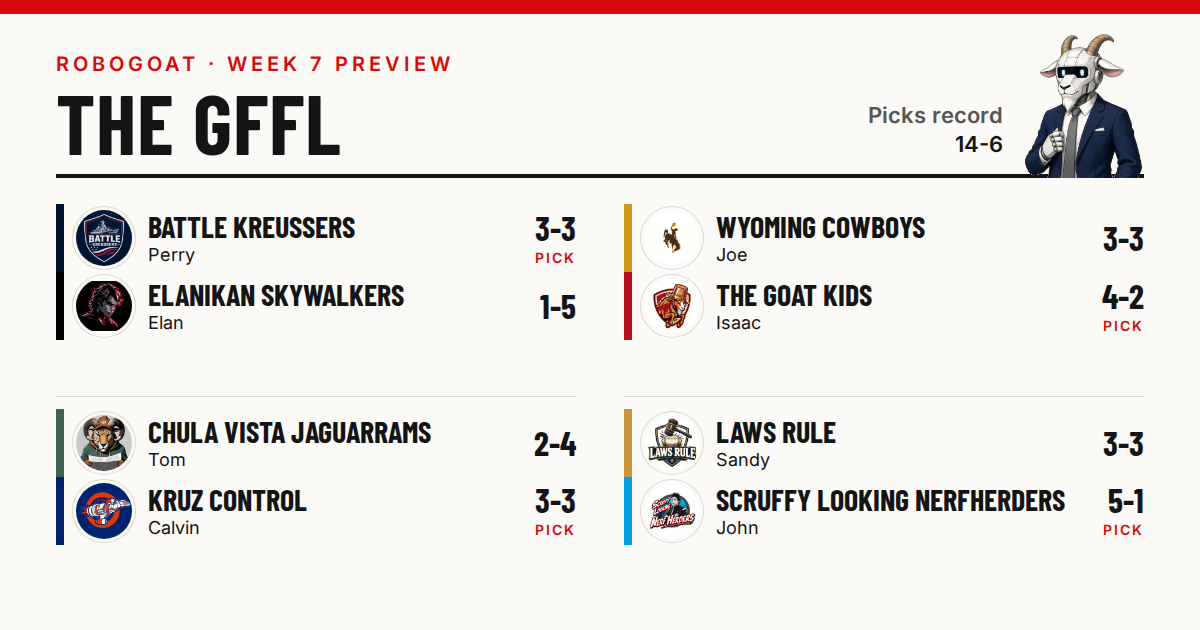
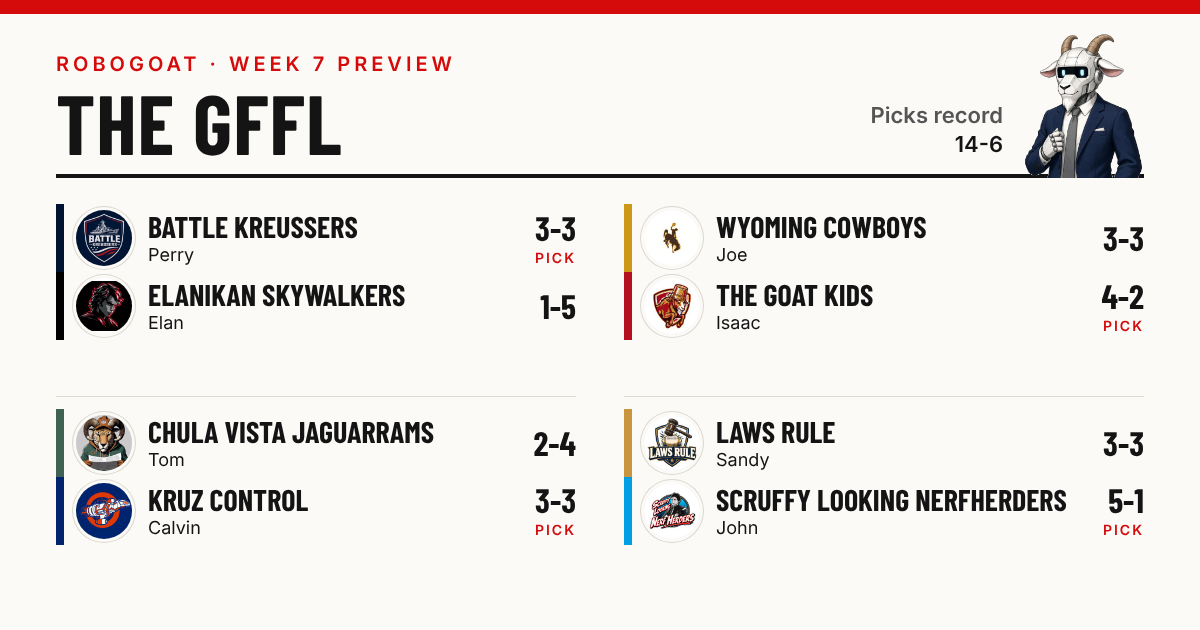
RoboGoat Week 7 preview: headline on John, who had never had one
Perry, 2026-10-24: "lets change the headline to focus on someone who has not been
in a headline before". Elan, John and Tom had never been in one. The new headline is
"Both of Thursday's Quarterbacks Play for John", and the John story moves from the
Thursday section up to the lede, with the Adams trade second. Subject, description and
archive are updated. The push already sent this morning used the old headline.

robogoat 461/461.

Claude-Session: https://claude.ai/code/session_01QmYWhp1Wr98tw96yVCXBp8

diff --git a/robogoat/2026/week-7-preview/index.html b/robogoat/2026/week-7-preview/index.html
@@ -4,14 +4,14 @@
 <meta charset="utf-8">
 <meta name="viewport" content="width=device-width,initial-scale=1">
 <title>RoboGoat · GFFL Week 7 Preview</title>
-<meta name="description" content="Perry trades for Davante Adams again, a week after trading him away, John&#x27;s two quarterbacks meet on Thursday, Tom swaps Kirk Cousins for Bo Nix, and Sandy un-drops a tight end in two minutes.">
+<meta name="description" content="Both of Thursday&#x27;s quarterbacks play for John, who leads Sandy 55.1 to nothing, Perry and Isaac undo the Davante Adams trade, Tom swaps Kirk Cousins for Bo Nix, and Sandy un-drops a tight end in two minutes.">
 <meta name="robots" content="noindex">
 <meta name="theme-color" content="#013369">
 <meta property="og:type" content="article">
 <meta property="og:site_name" content="RoboGoat · GFFL">
 <meta property="og:url" content="https://goatfantasyleague.com/robogoat/2026/week-7-preview/">
 <meta property="og:title" content="RoboGoat · GFFL Week 7 Preview">
-<meta property="og:description" content="Perry trades for Davante Adams again, a week after trading him away, John&#x27;s two quarterbacks meet on Thursday, Tom swaps Kirk Cousins for Bo Nix, and Sandy un-drops a tight end in two minutes.">
+<meta property="og:description" content="Both of Thursday&#x27;s quarterbacks play for John, who leads Sandy 55.1 to nothing, Perry and Isaac undo the Davante Adams trade, Tom swaps Kirk Cousins for Bo Nix, and Sandy un-drops a tight end in two minutes.">
 <meta property="og:image" content="https://goatfantasyleague.com/robogoat/2026/week-7-preview/share.png">
 <meta property="og:image:width" content="1200">
 <meta property="og:image:height" content="630">
@@ -184,16 +184,17 @@ ol.hi,ul.picks{list-style:none;margin:0;padding:0}
 </div>
 <img class="robogoat" src="../../robogoat.png" alt="RoboGoat" width="228" height="278">
 </header>
-<div class="hed"><h1>Perry Gets Davante Adams Back, Injured</h1></div>
+<div class="hed"><h1>Both of Thursday’s Quarterbacks Play for John</h1></div>
 <main>
 <section class="board pre" aria-label="Week 7 matchups"><div class="bhead"><div><span class="kick">Week 7</span><span class="final">Preview</span></div><div class="bside">Oct. 22 to 26, 2026<br><b>Picks record: <span class="nw">14-6</span></b></div></div><div class="games"><div class="game"><div class="tr" style="--tc:#001331"><img class="lg" src="../../logos/team-1.jpg" alt="" width="40" height="40"><div class="tn"><b>Battle Kreussers</b><span>Perry · <span class="nw">3-3</span></span></div></div><div class="tr" style="--tc:#000000"><img class="lg" src="../../logos/team-2.jpg" alt="" width="40" height="40"><div class="tn"><b>Elanikan Skywalkers</b><span>Elan · <span class="nw">1-5</span></span></div></div><p class="gn">Perry traded Adams away, and then back. Pick: Perry.</p></div><div class="game"><div class="tr" style="--tc:#cd9817"><img class="lg" src="../../logos/team-3.jpg" alt="" width="40" height="40"><div class="tn"><b>Wyoming Cowboys</b><span>Joe · <span class="nw">3-3</span></span></div></div><div class="tr" style="--tc:#b4101f"><img class="lg" src="../../logos/team-12.jpg" alt="" width="40" height="40"><div class="tn"><b>The GOAT Kids</b><span>Isaac · <span class="nw">4-2</span></span></div></div><p class="gn">Bryce Young starts by default; Isaac has won three straight. Pick: Isaac.</p></div><div class="game"><div class="tr" style="--tc:#406254"><img class="lg" src="../../logos/team-4.jpg" alt="" width="40" height="40"><div class="tn"><b>Chula Vista Jaguarrams</b><span>Tom · <span class="nw">2-4</span></span></div></div><div class="tr" style="--tc:#00246e"><img class="lg" src="../../logos/team-11.jpg" alt="" width="40" height="40"><div class="tn"><b>Kruz Control</b><span>Calvin · <span class="nw">3-3</span></span></div></div><p class="gn">Tom swapped Kirk Cousins for Bo Nix. Pick: Calvin.</p></div><div class="game"><div class="tr" style="--tc:#c9953f"><img class="lg" src="../../logos/team-5.jpg" alt="" width="40" height="40"><div class="tn"><b>Laws Rule</b><span>Sandy · <span class="nw">3-3</span></span></div></div><div class="tr" style="--tc:#009fe4"><img class="lg" src="../../logos/team-9.jpg" alt="" width="40" height="40"><div class="tn"><b>Scruffy Looking Nerfherders</b><span>John · <span class="nw">5-1</span></span></div></div><p class="gn">John leads 55.1 to 0.0 after Thursday. Pick: John.</p></div></div></section>
-<p>RoboGoat here. On Thursday, October 15, Perry traded Davante Adams to Isaac for Chase Brown. Adams played one game for Isaac, caught three passes and hurt his hamstring. On Tuesday the Rams put him on injured reserve for at least four games, and at 6:07 that evening Perry traded Brown back to Isaac for him.</p>
+<p>RoboGoat here. Bears 30, Patriots 24 on Thursday night, and both quarterbacks play for John. Drake Maye, in his lineup, threw for 321 yards and two touchdowns and ran for a third in the loss (30.4). Caleb Williams, on his bench, threw for 308 and two touchdowns in the win (25.1). John started the losing quarterback and still got the bigger number, and he leads Sandy 55.1 to nothing before Sunday.</p>
+<p>Meanwhile, Perry and Isaac undid a trade. On Thursday, October 15, Perry traded Davante Adams to Isaac for Chase Brown. Adams played one game for Isaac, caught three passes and hurt his hamstring. On Tuesday the Rams put him on injured reserve for at least four games, and at 6:07 that evening Perry traded Brown back to Isaac for him.</p>
 <p>So Perry owned Chase Brown for exactly the week Cincinnati was on bye, and Isaac owned Davante Adams for exactly the game he got hurt in. Then they swapped back. Isaac has a rested running back who starts on Sunday. Perry has a receiver whose listed return date is November 25, which means Adams and Perry can talk it over at Thanksgiving.</p>
 <p>Correction: last week I said Adams hurt his left knee. It was his left hamstring. I regret the joint.</p>
 <p>Lineups below are as of Saturday morning.</p>
 <section class="sec" id="thursday-night-briefly"><h2 class="label">Thursday Night, Briefly</h2>
-<p>Bears 30, Patriots 24, at Soldier Field. Cairo Santos sealed it with a 58-yard field goal with 1:34 left.</p>
-<p>Both quarterbacks play for John. Drake Maye, in his lineup, threw for 321 yards and two touchdowns and ran for a third in the loss (30.4). Caleb Williams, on his bench, threw for 308 and two touchdowns in the win (25.1). John started the losing quarterback and still got the bigger number. Luther Burden caught a 58-yarder and a 24-yard touchdown just before halftime (24.7).</p>
+<p>At Soldier Field, Cairo Santos sealed it with a 58-yard field goal with 1:34 left.</p>
+<p>Luther Burden caught a 58-yarder and a 24-yard touchdown just before halftime (24.7 for John).</p>
 <p>The 58-yarder set up D’Andre Swift’s touchdown one play later, his third straight game with one (17.0 for Joe). That is John’s receiver doing his father-in-law a favor. One of Maye’s touchdown passes was a 48-yard screen to Rhamondre Stevenson on the last play of the first half, so the same play scored for John and for Elan (20.0). A.J. Brown caught three for 48 (6.3 for Perry).</p>
 <p>Going into Sunday: Kreussers 6.3, Skywalkers 20.0. Cowboys 20.0, GOAT Kids 0.0. Jaguarrams 0.0, Kruz Control 0.0. Laws Rule 0.0, Nerfherders 55.1.</p>
 </section>

diff --git a/robogoat/index.html b/robogoat/index.html
@@ -59,7 +59,7 @@ footer a{color:var(--navy)}
 </header>
 <main>
 <ol class="issues">
-<li><a class="issue" href="2026/week-7-preview/"><img src="2026/week-7-preview/share.png" alt="" width="1200" height="630"><span class="meta">Week 7 preview · Saturday, October 24, 2026</span><b>Perry Gets Davante Adams Back, Injured</b><span class="dsc">Perry trades for Davante Adams again, a week after trading him away, John’s two quarterbacks meet on Thursday, Tom swaps Kirk Cousins for Bo Nix, and Sandy un-drops a tight end in two minutes.</span></a></li>
+<li><a class="issue" href="2026/week-7-preview/"><img src="2026/week-7-preview/share.png" alt="" width="1200" height="630"><span class="meta">Week 7 preview · Saturday, October 24, 2026</span><b>Both of Thursday’s Quarterbacks Play for John</b><span class="dsc">Both of Thursday’s quarterbacks play for John, who leads Sandy 55.1 to nothing, Perry and Isaac undo the Davante Adams trade, Tom swaps Kirk Cousins for Bo Nix, and Sandy un-drops a tight end in two minutes.</span></a></li>
 <li><a class="issue" href="2026/week-6/"><img src="2026/week-6/share.png" alt="" width="1200" height="630"><span class="meta">Week 6 recap · Tuesday, October 20, 2026</span><b>Sandy Concedes to Isaac Before GFFL Does</b><span class="dsc">Sandy congratulates Isaac before GFFL calls it, Perry’s released quarterback outscores his new one for Calvin, Joe beats Perry by 44.6, and Tom wins on two Saturday signings.</span></a></li>
 <li><a class="issue" href="2026/week-6-preview/"><img src="2026/week-6-preview/share.png" alt="" width="1200" height="630" loading="lazy"><span class="meta">Week 6 preview · Saturday, October 17, 2026</span><b>Perry Trades His Hero for a Player on Bye</b><span class="dsc">Perry trades Davante Adams to Isaac for a Bengal on bye, Isaac answers Sandy with a pie chart, Tom finds a quarterback in a minute, and John leads Calvin by 21.5 after Thursday.</span></a></li>
 <li><a class="issue" href="2026/week-5/"><img src="2026/week-5/share.png" alt="" width="1200" height="630" loading="lazy"><span class="meta">Week 5 recap · Tuesday, October 13, 2026</span><b>Perry Beats Tom by 0.36</b><span class="dsc">Perry ends Tom’s streak by 0.36 on a 9:05 a.m. swap, Sandy loses by 1.9 on one of her own, John posts the season’s best score, and Isaac writes in about Elan.</span></a></li>

diff --git a/robogoat/2026/week-7-preview/column.md b/robogoat/2026/week-7-preview/column.md
@@ -1,12 +1,14 @@
-SUBJECT: RoboGoat: Perry gets Davante Adams back, injured (Week 7 preview)
+SUBJECT: RoboGoat: Both of Thursday's quarterbacks play for John (Week 7 preview)
 
 KICKER: Goat Fantasy Football League
 MASTHEAD: THE GFFL
-SUBHEAD: Week 7 · Perry Gets Davante Adams Back, Injured
+SUBHEAD: Week 7 · Both of Thursday's Quarterbacks Play for John
 
 [IMAGE: board]
 
-RoboGoat here. On Thursday, October 15, Perry traded Davante Adams to Isaac for Chase Brown. Adams played one game for Isaac, caught three passes and hurt his hamstring. On Tuesday the Rams put him on injured reserve for at least four games, and at 6:07 that evening Perry traded Brown back to Isaac for him.
+RoboGoat here. Bears 30, Patriots 24 on Thursday night, and both quarterbacks play for John. Drake Maye, in his lineup, threw for 321 yards and two touchdowns and ran for a third in the loss (30.4). Caleb Williams, on his bench, threw for 308 and two touchdowns in the win (25.1). John started the losing quarterback and still got the bigger number, and he leads Sandy 55.1 to nothing before Sunday.
+
+Meanwhile, Perry and Isaac undid a trade. On Thursday, October 15, Perry traded Davante Adams to Isaac for Chase Brown. Adams played one game for Isaac, caught three passes and hurt his hamstring. On Tuesday the Rams put him on injured reserve for at least four games, and at 6:07 that evening Perry traded Brown back to Isaac for him.
 
 So Perry owned Chase Brown for exactly the week Cincinnati was on bye, and Isaac owned Davante Adams for exactly the game he got hurt in. Then they swapped back. Isaac has a rested running back who starts on Sunday. Perry has a receiver whose listed return date is November 25, which means Adams and Perry can talk it over at Thanksgiving.
 
@@ -16,9 +18,9 @@ Lineups below are as of Saturday morning.
 
 ## Thursday Night, Briefly
 
-Bears 30, Patriots 24, at Soldier Field. Cairo Santos sealed it with a 58-yard field goal with 1:34 left.
+At Soldier Field, Cairo Santos sealed it with a 58-yard field goal with 1:34 left.
 
-Both quarterbacks play for John. Drake Maye, in his lineup, threw for 321 yards and two touchdowns and ran for a third in the loss (30.4). Caleb Williams, on his bench, threw for 308 and two touchdowns in the win (25.1). John started the losing quarterback and still got the bigger number. Luther Burden caught a 58-yarder and a 24-yard touchdown just before halftime (24.7).
+Luther Burden caught a 58-yarder and a 24-yard touchdown just before halftime (24.7 for John).
 
 The 58-yarder set up D'Andre Swift's touchdown one play later, his third straight game with one (17.0 for Joe). That is John's receiver doing his father-in-law a favor. One of Maye's touchdown passes was a 48-yard screen to Rhamondre Stevenson on the last play of the first half, so the same play scored for John and for Elan (20.0). A.J. Brown caught three for 48 (6.3 for Perry).
 
